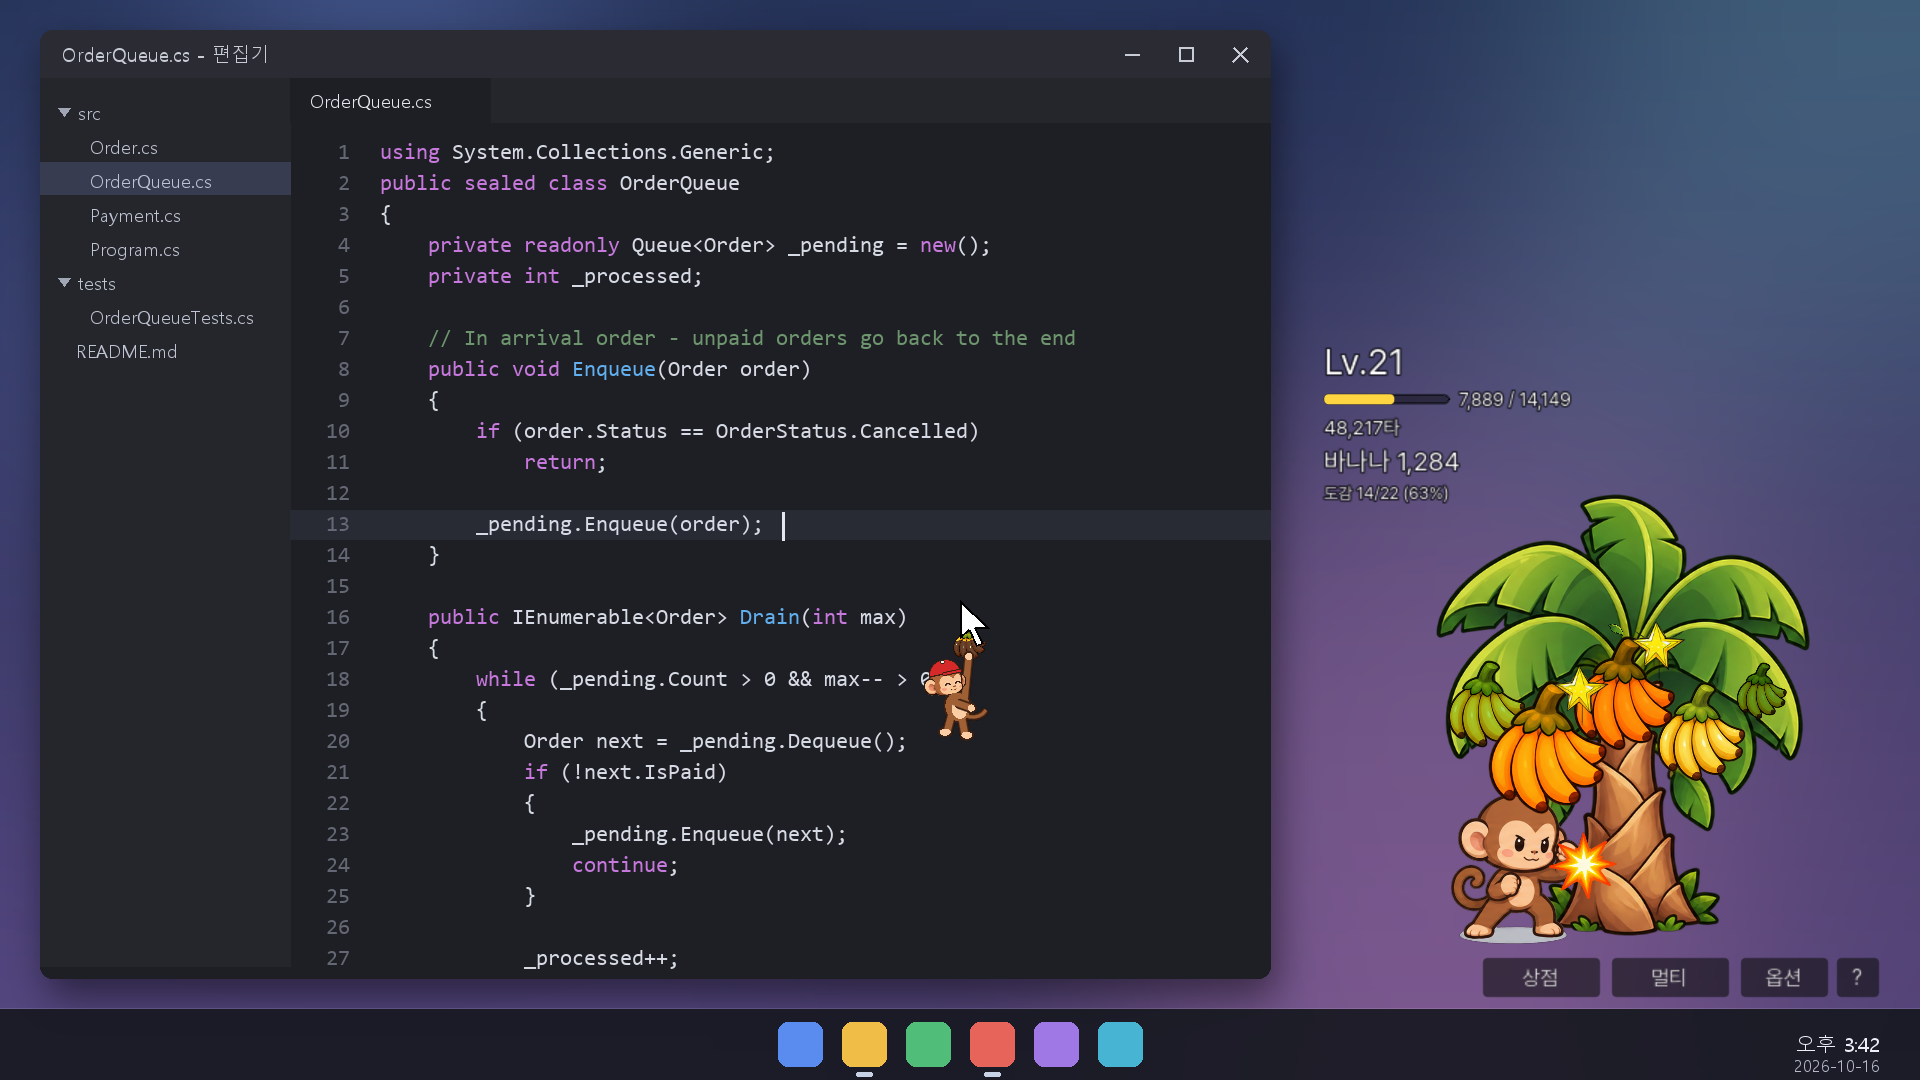
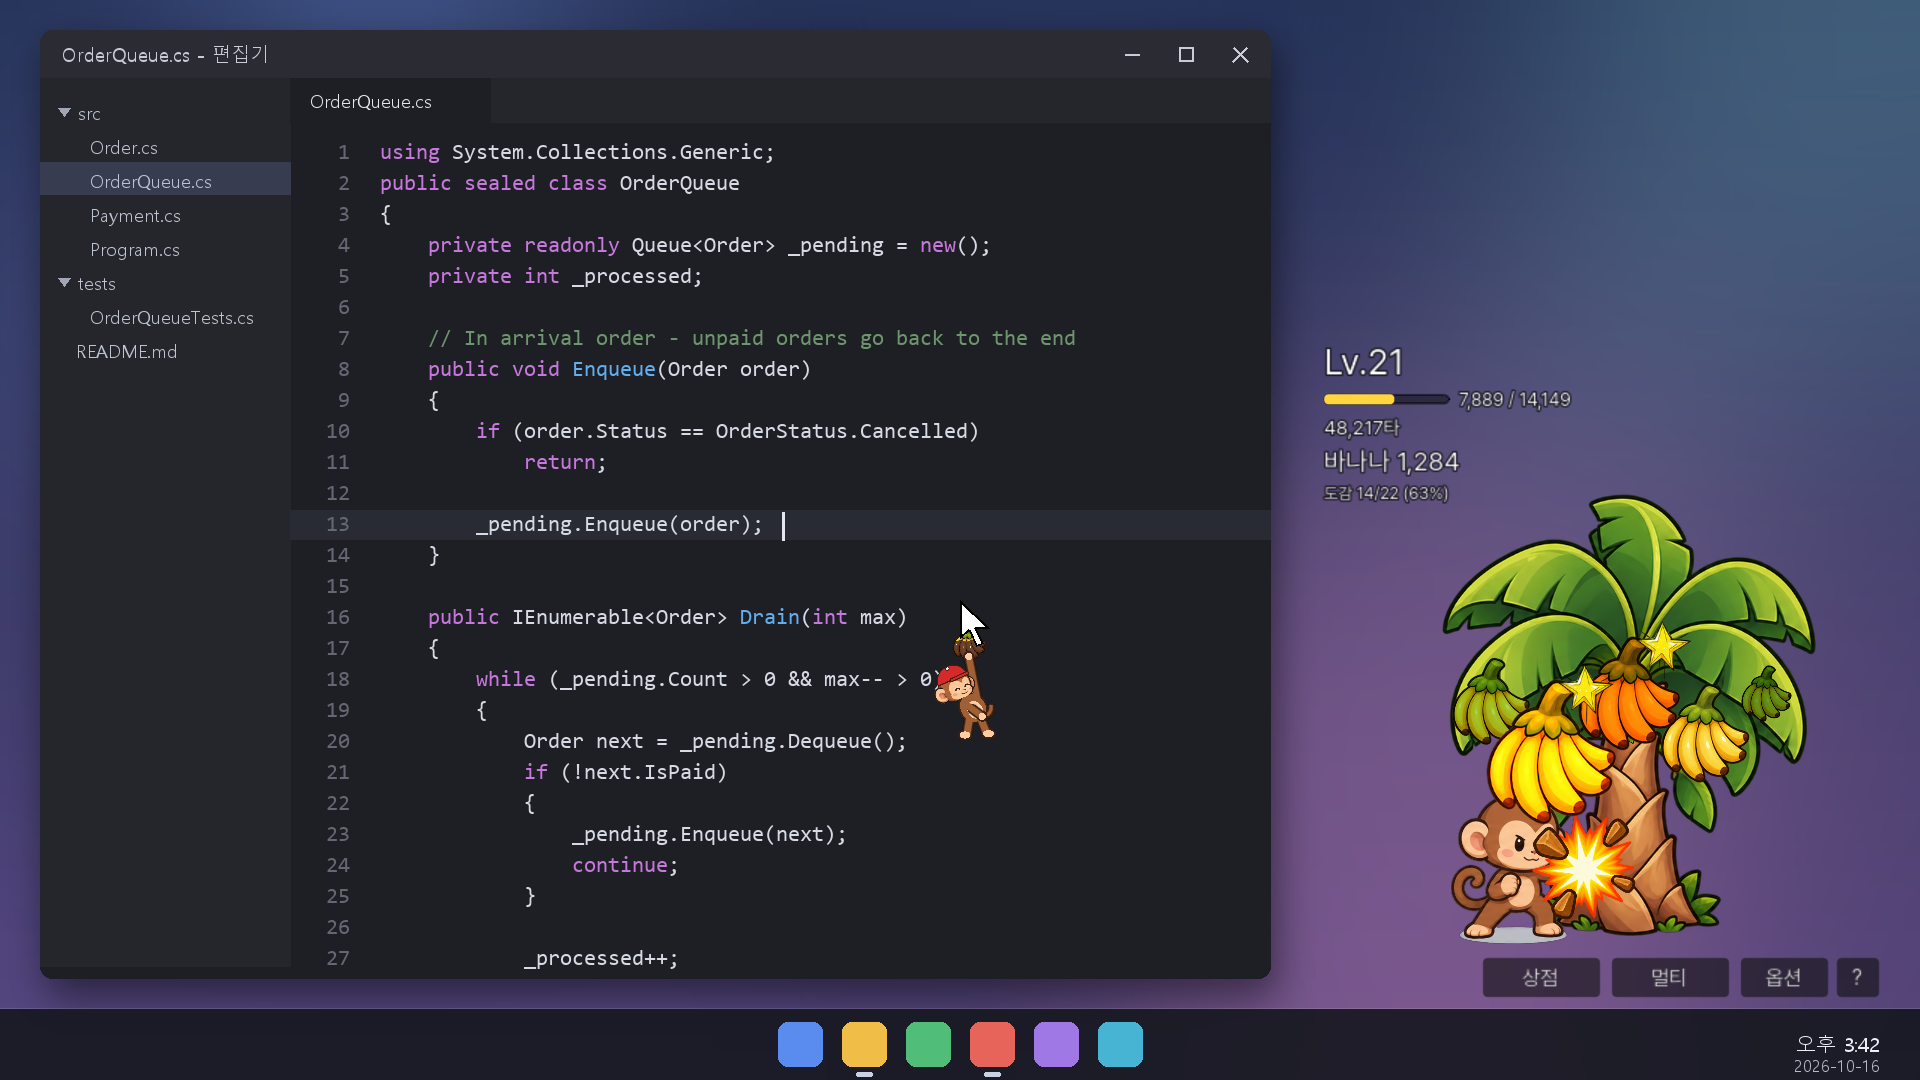
feat(B14): 밸런스 - 3~5티어 250/900/3000, 바나나 한 티어 싸게, 강화 두 배 + 친구 원숭이 갱신 빈도 제한
갑 결정: 하루 4시간 기준 장식 전부 6~8주, 강화는 비싸게, 바나나 변형은 원숭이보다 한 티어 싸게.
- items.json tierPrices 10/40/250/900/3000 (1·2티어는 첫 재미라 그대로), 바나나 티어 1,1,2,3,4
- 강화 x2 (UpgradeTable.cs + server catalog.ts): 가지 120/400/1200, 빨리 익기 80/240/700/1800, 황금 100/300/900/2400
- 시뮬레이션(tools/balance-sim.py): 하루 4시간 완주 27~32일 -> 45~55일, 첫 강화 본전 반나절 -> 16~25시간
- 친구 원숭이(Still)는 반응 중에도 초당 20번 - 친구 3명이 매 프레임 그려 릴리스 cpu 1.95% 였다
- --store-shot 강화 비용을 표에서 계산 (박아 둔 옛 합계로는 두 배 가격에서 구매가 실패), 스크린샷 다시 합성
- 서버 배포 d5e4bb3f, 테스트 25개 통과, 실물 로그인 확인. 근거: docs/B14-BALANCE.md

Changed region(s): [[0.75, 0.4583, 0.9688, 0.8556], [0.4688, 0.6111, 0.5312, 0.7028]]

diff --git a/server/src/catalog.ts b/server/src/catalog.ts
@@ -60,7 +60,7 @@ export function steamItemDefIdOf(itemDefId: string): number | null {
 }
 
 /**
- * 강화 3축의 단계별 효과와 가격 (B13, 2026-09-24 — docs/B13-UPGRADES.md).
+ * 강화 3축의 단계별 효과와 가격 (B13, 2026-09-24 — docs/B13-UPGRADES.md). 가격은 B14(2026-09-26)에서 두 배 - docs/B14-BALANCE.md.
  *
  * **C# 사본이 따로 있다** — shared/UpgradeTable.cs (목 경제와 강화 UI 가 쓴다). 두 표가
  * 갈라지면 조용히 갈라지므로 한쪽을 고치면 다른 쪽도 같이 고친다. 진짜 판정은 이 표로 한다.
@@ -70,11 +70,11 @@ export function steamItemDefIdOf(itemDefId: string): number | null {
  */
 export const UPGRADES = {
   /** 가지 늘리기: 슬롯 수. */
-  slots: { effect: [3, 4, 5, 6], price: [60, 200, 600] },
+  slots: { effect: [3, 4, 5, 6], price: [120, 400, 1200] },
   /** 빨리 익기: 한 송이가 익는 시간(ms). 8분에서 1분씩. */
-  cycle: { effect: [480_000, 420_000, 360_000, 300_000, 240_000], price: [40, 120, 350, 900] },
+  cycle: { effect: [480_000, 420_000, 360_000, 300_000, 240_000], price: [80, 240, 700, 1800] },
   /** 황금 바나나: 한 송이가 황금일 확률(%). */
-  golden: { effect: [0, 5, 10, 15, 20], price: [50, 150, 450, 1200] },
+  golden: { effect: [0, 5, 10, 15, 20], price: [100, 300, 900, 2400] },
 } as const;
 
 /** 황금 바나나 한 송이의 값. 보통 바나나는 1. */

diff --git a/server/test/catalog.test.ts b/server/test/catalog.test.ts
@@ -54,7 +54,7 @@ describe("catalog", () => {
   });
 
   it("강화 표: 최대 단계에서 다음 가격은 null, 표보다 큰 레벨은 마지막 단계", () => {
-    expect(upgradePriceOf("golden", 0)).toBe(50);
+    expect(upgradePriceOf("golden", 0)).toBe(100);   // B14: B13 의 두 배
     expect(upgradePriceOf("golden", 4)).toBeNull();
     expect(upgradePriceOf("slots", 3)).toBeNull();
     expect(slotCountAt(99)).toBe(6);

diff --git a/tools/balance-sim.py b/tools/balance-sim.py
@@ -1,0 +1,119 @@
+"""B14 밸런스 시뮬레이터 (docs/B14-BALANCE.md).
+
+    python tools\balance-sim.py
+
+지금 가격표(game/shop/items.json)와 강화 표로 '하루 N시간 켜 두는 사람' 이 장식을 다 모으는 날짜를 전략별로 낸다.
+가정: 켜 둔 동안은 익는 대로 다 딴다(타건 충분), 꺼 둔 동안은 슬롯이 한 번 차고 멈춘다(오프라인 상한).
+강화 표는 여기 BASE_UP 이 shared/UpgradeTable.cs · server/src/catalog.ts 와 같아야 한다 (지금 값을 적어 둔다).
+"""
+import itertools
+import json
+import sys
+
+sys.stdout.reconfigure(encoding="utf-8")
+import pathlib
+M = json.load(open(pathlib.Path(__file__).resolve().parents[1] / "game" / "shop" / "items.json", encoding="utf-8"))
+
+BASE_UP = {
+    "slots": ([3, 4, 5, 6], [120, 400, 1200]),
+    "cycle": ([480, 420, 360, 300, 240], [80, 240, 700, 1800]),
+    "golden": ([0, 5, 10, 15, 20], [100, 300, 900, 2400]),
+}
+
+
+def items(tier_prices, banana_shift):
+    out = []
+    for i in M["items"]:
+        t = i["tier"]
+        if t == 0:
+            continue
+        if i["category"] == "banana" and banana_shift:
+            t = max(1, t - 1)
+        out.append((i["id"], i["category"], t, tier_prices[t - 1]))
+    return out
+
+
+def ups(mult):
+    return {k: (v[0], [round(p * mult / 10) * 10 for p in v[1]]) for k, v in BASE_UP.items()}
+
+
+def rate(up, lv):
+    slots = up["slots"][0][lv["slots"]]
+    growth = up["cycle"][0][lv["cycle"]]
+    g = up["golden"][0][lv["golden"]] / 100
+    return slots * 3600 / growth * (1 - g + 5 * g)
+
+
+def offline(up, lv):
+    g = up["golden"][0][lv["golden"]] / 100
+    return up["slots"][0][lv["slots"]] * (1 - g + 5 * g)
+
+
+def simulate(its, up, hours, strategy, days=600):
+    lv = {k: 0 for k in up}
+    bank, owned, log = 0.0, set(), {}
+    todo = sorted(its, key=lambda x: x[3])
+    for day in range(1, days + 1):
+        bank += offline(up, lv) + rate(up, lv) * hours
+        while True:
+            u = sorted((up[a][1][lv[a]], a) for a in up if lv[a] < len(up[a][1]))
+            it = next((x for x in todo if x[0] not in owned), None)
+            cands = []
+            if strategy == "upgrades_first":
+                cands = [("u", u[0])] if u else ([("i", it)] if it else [])
+            elif strategy == "mixed":
+                cands = sorted([("u", x) for x in u] + ([("i", it)] if it else []),
+                               key=lambda c: c[1][0] if c[0] == "u" else c[1][3])
+            else:
+                cands = [("i", it)] if it else []
+            if not cands:
+                break
+            kind, obj = cands[0]
+            cost = obj[0] if kind == "u" else obj[3]
+            if bank < cost:
+                break
+            bank -= cost
+            if kind == "u":
+                lv[obj[1]] += 1
+                log.setdefault("up1", day)
+            else:
+                owned.add(obj[0])
+                log.setdefault("item1", day)
+                if len(owned) == 10:
+                    log.setdefault("item10", day)
+                if len(owned) == len(its):
+                    log["all"] = day
+                    return log
+    return log
+
+
+def payback_hours(up):
+    base = {k: 0 for k in up}
+    r0 = rate(up, base)
+    res = {}
+    for a in up:
+        lv = dict(base)
+        lv[a] = 1
+        res[a] = up[a][1][0] / (rate(up, lv) - r0)
+    return res
+
+
+def report(tier_prices, mult, shift, label):
+    its = items(tier_prices, shift)
+    up = ups(mult)
+    total_i = sum(x[3] for x in its)
+    total_u = sum(sum(v[1]) for v in up.values())
+    pb = payback_hours(up)
+    print(f"\n== {label}: tier {tier_prices}, 강화 x{mult}, 바나나 한 티어 싸게={shift}")
+    print(f"   장식 합 {total_i:,} / 강화 합 {total_u:,}  / 첫 강화 본전(플레이 시간) 가지 {pb['slots']:.0f}h · 빨리 익기 {pb['cycle']:.0f}h · 황금 {pb['golden']:.0f}h")
+    for h in (2, 4, 8):
+        row = []
+        for st in ("mixed", "upgrades_first", "items_only"):
+            lg = simulate(its, up, h, st)
+            row.append(f"{st}: 첫 {lg.get('item1','-')}일, 10개 {lg.get('item10','-')}일, 전부 {lg.get('all','-')}일")
+        print(f"   하루 {h}h | " + " | ".join(row))
+
+
+if __name__ == "__main__":
+    # 지금 표 그대로 (items.json 의 티어는 이미 바나나가 한 티어 싸다 - banana_shift 는 끈다)
+    report(M["tierPrices"], 1, False, "지금 (items.json + 강화 표)")

diff --git a/shared/UpgradeTable.cs b/shared/UpgradeTable.cs
@@ -13,19 +13,21 @@ namespace ProjectSeWoo.Shared;
 /// 그래서 <c>Price.Length == Effect.Length - 1</c> 이고, 최대 레벨은 <c>Price.Length</c>.
 /// 표보다 큰 레벨(예전 곡선으로 올린 개발 계정)은 마지막 단계로 본다.
 /// </summary>
+/// <b>가격은 B14(2026-09-26)에서 B13 의 두 배가 됐다</b> - 첫 강화가 반나절 플레이로 본전을 뽑아 "강화 먼저" 가 늘 정답이었다.
+/// 두 배면 본전이 16~25시간이 되어 꾸미기와 효율 사이에 고민이 생긴다 (docs/B14-BALANCE.md).
 public static class UpgradeTable
 {
     /// <summary>가지 늘리기: 슬롯 수. 슬롯 = 오프라인 저장고 크기이기도 하다 (기획서 §2-2).</summary>
     public static readonly int[] SlotCount = { 3, 4, 5, 6 };
-    public static readonly long[] SlotPrice = { 60, 200, 600 };
+    public static readonly long[] SlotPrice = { 120, 400, 1200 };
 
     /// <summary>빨리 익기: 한 송이가 익는 데 걸리는 시간(ms). 8분에서 1분씩.</summary>
     public static readonly long[] GrowthMs = { 480_000, 420_000, 360_000, 300_000, 240_000 };
-    public static readonly long[] CyclePrice = { 40, 120, 350, 900 };
+    public static readonly long[] CyclePrice = { 80, 240, 700, 1800 };
 
     /// <summary>황금 바나나: 한 송이가 익을 때 황금일 확률(%).</summary>
     public static readonly int[] GoldenChancePercent = { 0, 5, 10, 15, 20 };
-    public static readonly long[] GoldenPrice = { 50, 150, 450, 1200 };
+    public static readonly long[] GoldenPrice = { 100, 300, 900, 2400 };
 
     /// <summary>황금 바나나 한 송이의 값. 보통 바나나는 1.</summary>
     public const int GoldenMultiplier = 5;

diff --git a/platform/OverlayShell.StoreShots.cs b/platform/OverlayShell.StoreShots.cs
@@ -202,11 +202,15 @@ public partial class OverlayShell
         }
 
         // 강화: 황금 2단계(10%), 가지 2단계(5송이), 빨리 익기 1단계. 사고 남는 잔액이 1,284.
-        economy.GrantBananas(1_284 + 50 + 150 + 60 + 200 + 40);
-        foreach (UpgradeAxis axis in new[] { UpgradeAxis.Golden, UpgradeAxis.Golden, UpgradeAxis.Slots, UpgradeAxis.Slots, UpgradeAxis.Cycle })
+        // 가격은 표에서 센다 - B14 에서 강화 가격이 두 배가 되자 박아 둔 합계로는 강화 구매가 실패했다.
+        UpgradeAxis[] plan = { UpgradeAxis.Golden, UpgradeAxis.Golden, UpgradeAxis.Slots, UpgradeAxis.Slots, UpgradeAxis.Cycle };
+        foreach (UpgradeAxis axis in plan)
         {
+            economy.GrantBananas(UpgradeTable.NextPrice(axis, economy.UpgradeLevel(axis)) ?? 0);
             economy.PurchaseUpgrade(axis);
         }
+
+        economy.GrantBananas(1_284);
 
         // 송이 5개: 황금(익음) · 보통(익음) · 황금(익음) · 자라는 중 · 막 달림.
         // 수확은 앞에서부터 하므로 0 번이 수확 장면에서 떨어지는 황금 송이다.

diff --git a/shared/Cursor/MonkeyRig.cs b/shared/Cursor/MonkeyRig.cs
@@ -212,8 +212,10 @@ public partial class MonkeyRig : Node2D
 
         _stepAccum += delta;
         bool moving = _hasCursor && _cursor.DistanceSquaredTo(_lastStepCursor) > 0.25f;
-        bool active = moving || State != Pose.Hang || _idleAction != 0 || Mathf.Abs(_angularVelocity) > 0.03f
-            || Mathf.Abs(_freeArmAngle - RestArm) > 0.05f || _bob > 0.1f;
+        // 친구 원숭이(Still)는 반응 중에도 초당 IdleHz 번이면 된다 - 친구 3명이 칠 때마다 매 프레임 그려서 릴리스에서
+        // cpu 1.95% 였다 (2026-09-26 측정). 매 프레임은 내 커서만.
+        bool active = !Still && (moving || State != Pose.Hang || _idleAction != 0 || Mathf.Abs(_angularVelocity) > 0.03f
+            || Mathf.Abs(_freeArmAngle - RestArm) > 0.05f || _bob > 0.1f);
         if (!active && _stepAccum < 1.0 / IdleHz)
         {
             return;

diff --git a/docs/B14-BALANCE.md b/docs/B14-BALANCE.md
@@ -1,0 +1,51 @@
+# B14 — 밸런스 (가격표 · 강화)
+
+관련: [B13 강화](B13-UPGRADES.md) / [B17 커서 장식](B17-CURSOR-REWORK.md) / [ECONOMY-SERVER](ECONOMY-SERVER.md) / 시뮬레이터 `tools/balance-sim.py`
+
+## 0. 결정 (2026-09-26 갑)
+
+| 무엇 | 결정 |
+|---|---|
+| 완주 목표 | **하루 4시간 켜 두는 사람 기준, 장식 전부 6~8주** |
+| 강화 | **비싸게(B)** — 첫 강화가 반나절에 본전이라 "강화 먼저" 가 늘 정답이었다. 고민이 생기게 |
+| 바나나 변형 | **원숭이보다 한 티어 싸게** — 커서에서 작게 보이는 부품이다 |
+
+## 1. 바뀐 값
+
+| | 전 (B9 · B13) | 후 (B14) |
+|---|---|---|
+| 티어 가격 1~5 | 10 / 40 / 150 / 500 / 1,500 | 10 / 40 / **250 / 900 / 3,000** — 1·2티어는 첫 재미라 그대로 |
+| 바나나 풋·초코·딸기·은·다이아 | 10 / 40 / 150 / 500 / 1,500 | **10 / 10 / 40 / 250 / 900** (티어 1,1,2,3,4) |
+| 가지 늘리기 | 60 / 200 / 600 | **120 / 400 / 1,200** |
+| 빨리 익기 | 40 / 120 / 350 / 900 | **80 / 240 / 700 / 1,800** |
+| 황금 바나나 | 50 / 150 / 450 / 1,200 | **100 / 300 / 900 / 2,400** |
+| 장식 합 / 강화 합 | 8,800 / 4,120 | 13,810 / 8,240 |
+
+어디: 티어 가격·아이템 티어는 `game/shop/items.json`(게임·서버가 같이 읽는다), 강화는 `shared/UpgradeTable.cs` 와
+`server/src/catalog.ts` 두 벌(갈라지면 조용히 갈라진다). 이미 산 것·올린 강화는 그대로다.
+
+## 2. 시뮬레이션 (`tools/balance-sim.py`)
+
+가정: 켜 둔 동안 익는 대로 다 딴다(타건 충분 — 강화 끝이면 시간당 약 900타), 꺼 둔 동안은 슬롯이 한 번 차고 멈춘다.
+시간당 수입은 강화 없음 22.5 → 강화 끝 162 (약 7배).
+
+**장식 전부 모으는 날짜**
+
+| 하루 켜 두는 시간 | 가격순으로 섞어 사기 (전 → 후) | 강화 먼저 (전 → 후) | 강화 안 함 (전 → 후) |
+|---|---|---|---|
+| 2시간 | 61 → 106일 | 50 → 88일 | 184 → 288일 |
+| **4시간** | **32 → 55일** | **27 → 45일** | 95 → 149일 |
+| 8시간 | 17 → 28일 | 14 → 24일 | 49 → 76일 |
+
+- 첫 장식은 그대로 1일째(10바나나 ≈ 30분)
+- 첫 강화 본전(플레이 시간): 가지 8 → 16시간, 빨리 익기 12 → 25시간, 황금 11 → 22시간. "강화 먼저" 를 고르면 첫 장식이 3주
+  넘게 밀린다 — 이제 꾸미기와 효율 사이에 실제 고민이 있다
+- 강화 먼저가 여전히 조금 빠르다(45 vs 55일) — 강화가 손해가 되면 안 되므로 이 정도 차이는 둔다
+
+## 3. 남은 것
+
+- **실사용 데이터로 다시 본다** — 시뮬레이션은 "켜 둔 동안 다 딴다" 가정이다. 실제 타건 수·켜 두는 시간을 스팀 통계
+  (`STAT_KEYSTROKES`)와 서버 원장으로 보고 조정한다
+- 하루 2시간 사용자는 3~4개월이다. 길다는 반응이 있으면 5티어만 낮춘다
+- 장식이 업데이트로 늘면 완주 기간도 는다 — 새 장식은 같은 티어 표에 넣는다
+- 마켓이 열리면 5티어(3,000)가 귀한 장식이 된다 — 그때 값을 다시 본다

diff --git a/docs/B13-UPGRADES.md b/docs/B13-UPGRADES.md
@@ -36,7 +36,7 @@
 | 축 | 효과 | 단계 | 가격 (단계마다) | 느낌 |
 |---|---|---|---|---|
 | **빨리 익기** (`cycle`) | 한 송이 익는 시간 8 → 7 → 6 → 5 → **4분** | 4 | 40 / 120 / 350 / 900 | 바나나가 금방 노래진다 |
-| **황금 바나나** (`golden`) | 송이가 황금일 확률 0 → 5 → 10 → 15 → **20%**. 따면 **×5** | 4 | 50 / 150 / 450 / 1,200 | 반짝이는 황금 송이가 열리면 "저거 쳐야지" |
+| **황금 바나나** (`golden`) | 송이가 황금일 확률 0 → 5 → 10 → 15 → **20%**. 따면 **×5** | 4 | ~~50 / 150 / 450 / 1,200~~ → **100 / 300 / 900 / 2,400** (B14) | 반짝이는 황금 송이가 열리면 "저거 쳐야지" |
 | **가지 늘리기** (`slots`) | 송이 수 3 → 4 → 5 → **6** | 3 | 60 / 200 / 600 | 나무가 풍성해진다. 오프라인 저장고 |
 
 - **황금 바나나가 "수확하면 N배"다.** 기대값은 20% 일 때 1 + 0.2×4 = 1.8배로 적당하고, 가끔 터지는
@@ -114,3 +114,8 @@ Lv.0 / 최대 화면, 익은 황금 송이 화면.
 
 - 예전 "파워" 레벨(`power_level`)은 넘기지 않는다 — 출시 전이라 개발 계정뿐이다. 칸은 남아 있고 안 쓴다
 - 예전 곡선으로 올린 레벨이 표보다 크면(슬롯 7~8 등) 마지막 단계로 본다
+
+> **2026-09-26 B14 — 강화 가격을 전부 두 배로** (가지 120/400/1,200, 빨리 익기 80/240/700/1,800, 황금 100/300/900/2,400).
+> 첫 강화가 반나절 플레이로 본전을 뽑아 "강화 먼저" 가 늘 정답이었다. 위 표·시험 결과의 가격은 B13 당시 값이다.
+> 근거와 시뮬레이션: [B14-BALANCE.md](B14-BALANCE.md).
+
